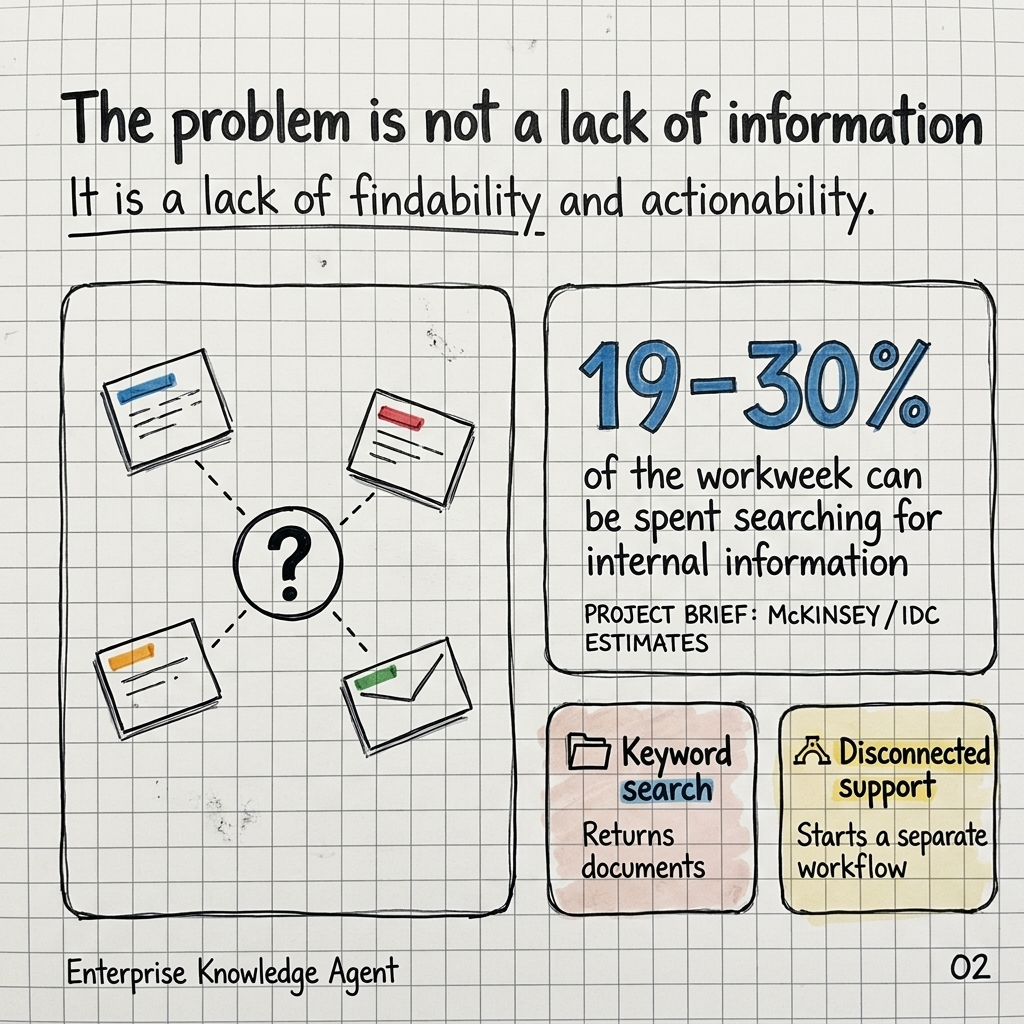
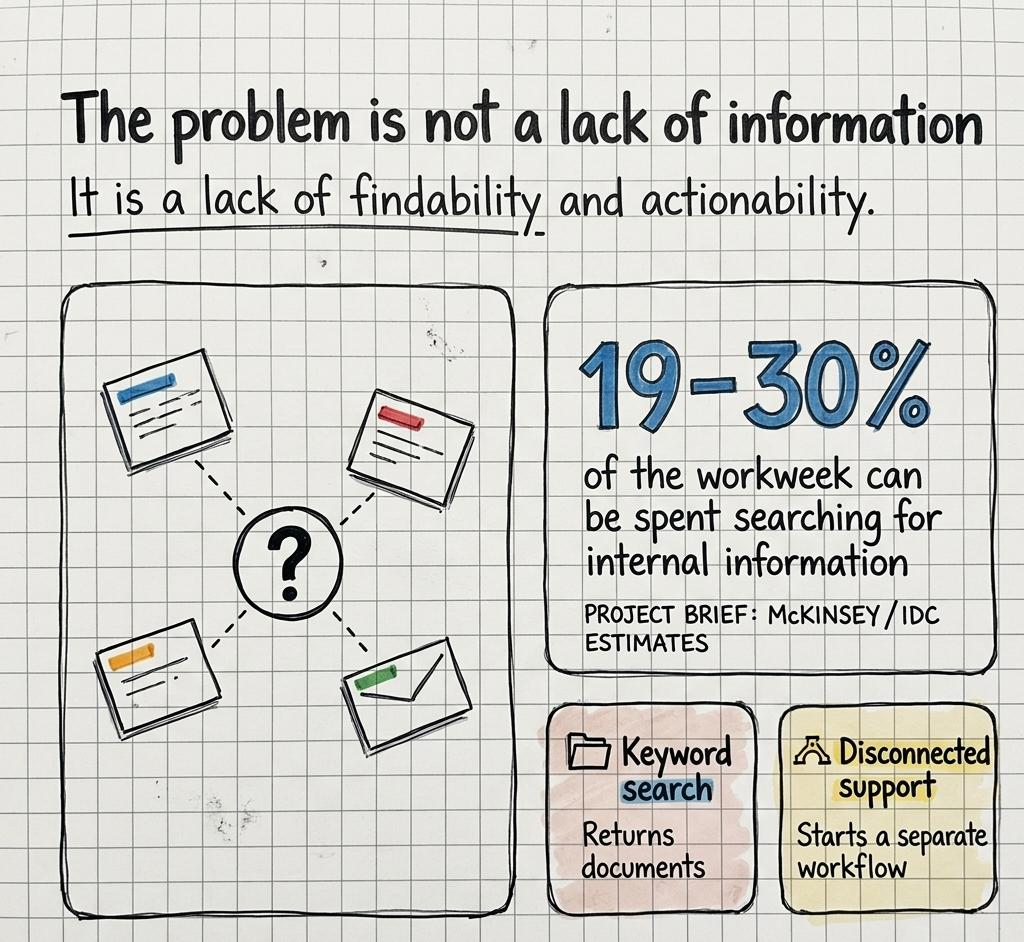
style: Crop image footer and set width to 80%

diff --git a/smartbase.html b/smartbase.html
@@ -39,7 +39,7 @@
 
     <!-- OVERVIEW / PROBLEM STATEMENT -->
     <section id="overview" class="container section-padding" style="margin-top: 4rem;">
-      <div class="cp-img-wrapper animate-up" style="border-radius: 16px; margin: 0 auto; max-width: 900px; background: #fdfdfd; padding: 2rem; border: 1px solid rgba(0,0,0,0.05);">
+      <div class="cp-img-wrapper animate-up" style="border-radius: 16px; margin: 0 auto; width: 80%; background: #fdfdfd; padding: 2rem; border: 1px solid rgba(0,0,0,0.05);">
         <img src="assets/smartbase/problem_sketch.jpg" alt="The problem is not a lack of information. It is a lack of findability and actionability." style="width: 100%; border-radius: 8px;" />
       </div>
     </section>
@@ -51,7 +51,7 @@
         <p class="subtitle" style="font-size: clamp(1.05rem, 1.9vw, 1.4375rem);">End-to-End RAG Pipeline & MCP Tool Integration</p>
       </div>
 
-      <div class="cp-img-wrapper animate-up" style="border-radius: 16px; margin: 0 auto; max-width: 900px; background: #fdfdfd; padding: 2rem; border: 1px solid rgba(0,0,0,0.05);">
+      <div class="cp-img-wrapper animate-up" style="border-radius: 16px; margin: 0 auto; width: 80%; background: #fdfdfd; padding: 2rem; border: 1px solid rgba(0,0,0,0.05);">
         <img src="assets/smartbase/architecture.jpg" alt="Hand-drawn Architecture Diagram" style="width: 100%; border-radius: 8px;" />
       </div>
     </section>
